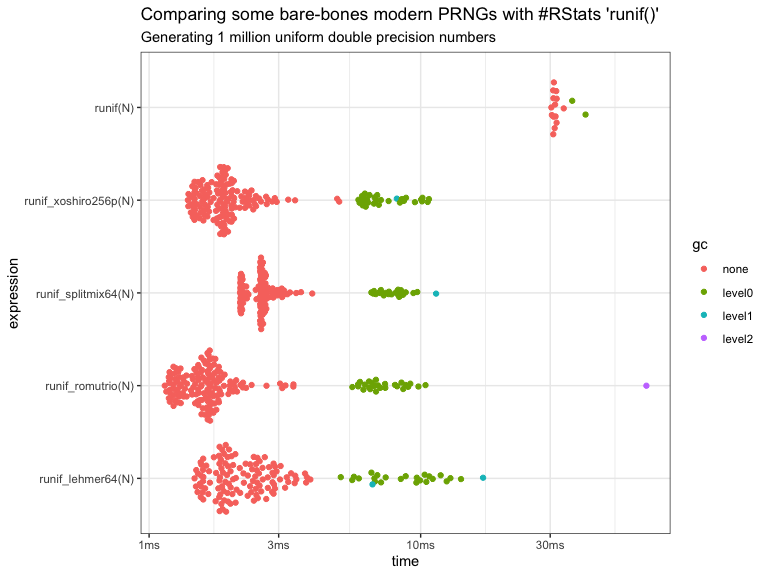
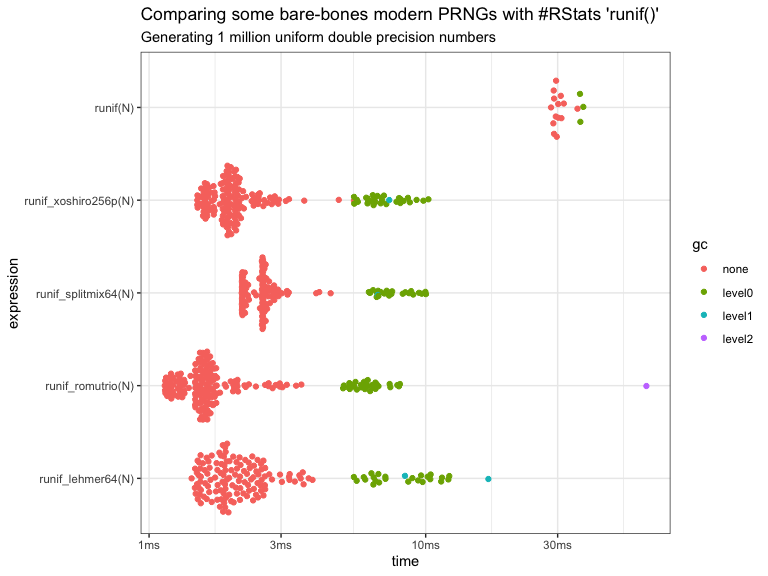
typo in xoshiro256p implemtnation

diff --git a/src/xoshiro256p.c b/src/xoshiro256p.c
@@ -109,7 +109,7 @@ SEXP set_seed_xoshiro256p_(SEXP seedlo, SEXP seedhi) {
 // C function callable from R to generate single random number in [0,1]
 //~~~~~~~~~~~~~~~~~~~~~~~~~~~~~~~~~~~~~~~~~~~~~~~~~~~~~~~~~~~~~~~~~~~~~~~~~~~~
 SEXP runif1_xoshiro256p_(void) {
-  const uint64_t result = xoshiro256p_state[0] + xoshiro256p_state[3];
+  const uint64_t result = rotl(xoshiro256p_state[0] + xoshiro256p_state[3], 23) + xoshiro256p_state[0];
 
   const uint64_t t = xoshiro256p_state[1] << 17;
 
@@ -142,7 +142,7 @@ SEXP runif_xoshiro256p_(SEXP n_, SEXP min_, SEXP max_) {
   double *dbl_ptr = REAL(dbl_vec);
 
   for (int i = 0; i < n; i++) {
-    uint64_t result = xoshiro256p_state[0] + xoshiro256p_state[3];
+    uint64_t result = rotl(xoshiro256p_state[0] + xoshiro256p_state[3], 23) + xoshiro256p_state[0];
     const uint64_t t = xoshiro256p_state[1] << 17;
 
     xoshiro256p_state[2] ^= xoshiro256p_state[0];

diff --git a/README.md b/README.md
@@ -7,6 +7,8 @@
 
 ![](https://img.shields.io/badge/cool-useless-green.svg) [![R build
 status](https://github.com/coolbutuseless/miranda/workflows/R-CMD-check/badge.svg)](https://github.com/coolbutuseless/miranda/actions)
+[![Lifecycle:
+experimental](https://img.shields.io/badge/lifecycle-experimental-orange.svg)](https://www.tidyverse.org/lifecycle/#experimental)
 <!-- badges: end -->
 
 The `miranda` packages includes some modern pseudo-random number
@@ -71,21 +73,21 @@ set_seed_xoshiro256p(2020)
 
 # Generate some uniform random numbers from xoshiro256+
 runif_xoshiro256p(5)
-#> [1] 0.5322239 0.7788869 0.4601653 0.8475389 0.9540731
+#> [1] 0.2668926 0.1978240 0.1521969 0.3747224 0.9104508
 
 # Jump ahead. As if 2^128 numbers had been generated
 jump_xoshiro256p()
 
 # Generate some uniform random numbers from xoshiro256+
 runif_xoshiro256p(5)
-#> [1] 0.5714143 0.5006207 0.6907487 0.2625934 0.5053289
+#> [1] 0.03785313 0.32502526 0.58388405 0.66621834 0.90735130
 
 # reset the state to a prior value
 set_state_xoshiro256p(state)
 
 # Generate some uniform random numbers from xoshiro256+
 runif_xoshiro256p(5)
-#> [1] 0.5322239 0.7788869 0.4601653 0.8475389 0.9540731
+#> [1] 0.2668926 0.1978240 0.1521969 0.3747224 0.9104508
 ```
 
 # Benchmark: Generating 1 million uniform random numbers

diff --git a/NEWS.md b/NEWS.md
@@ -1,10 +1,15 @@
-# initial release 0.1.1
+
+# miranda 0.1.2
+
+* fixed a typo in xoshiro256p implementation
+
+# miranda 0.1.1
 
 * Added `runif_splitmix64_as_bytes()` which returns the result as a raw vector
   rather than a vector of doubles.
 * Improved the seeding procedure in `set_seed_lehmer64()`
 
 
-# initial release 0.1.0
+# miranda 0.1.0
 
 * Initial release
